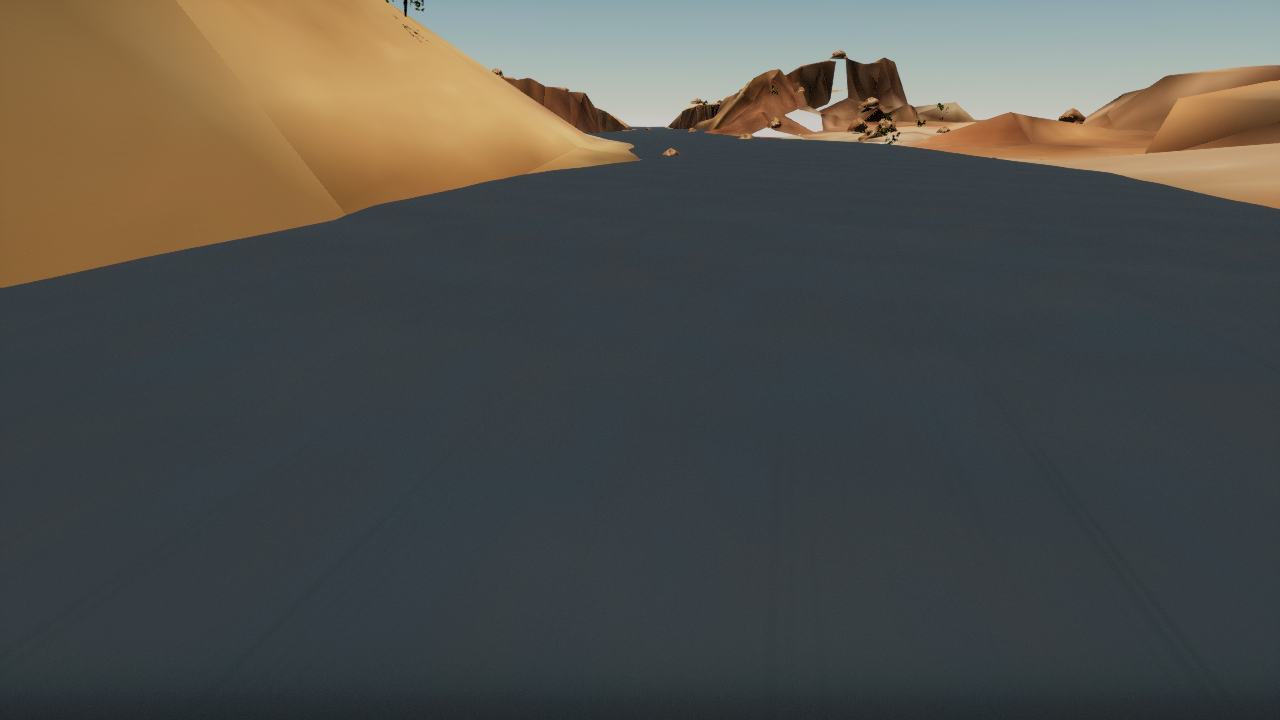
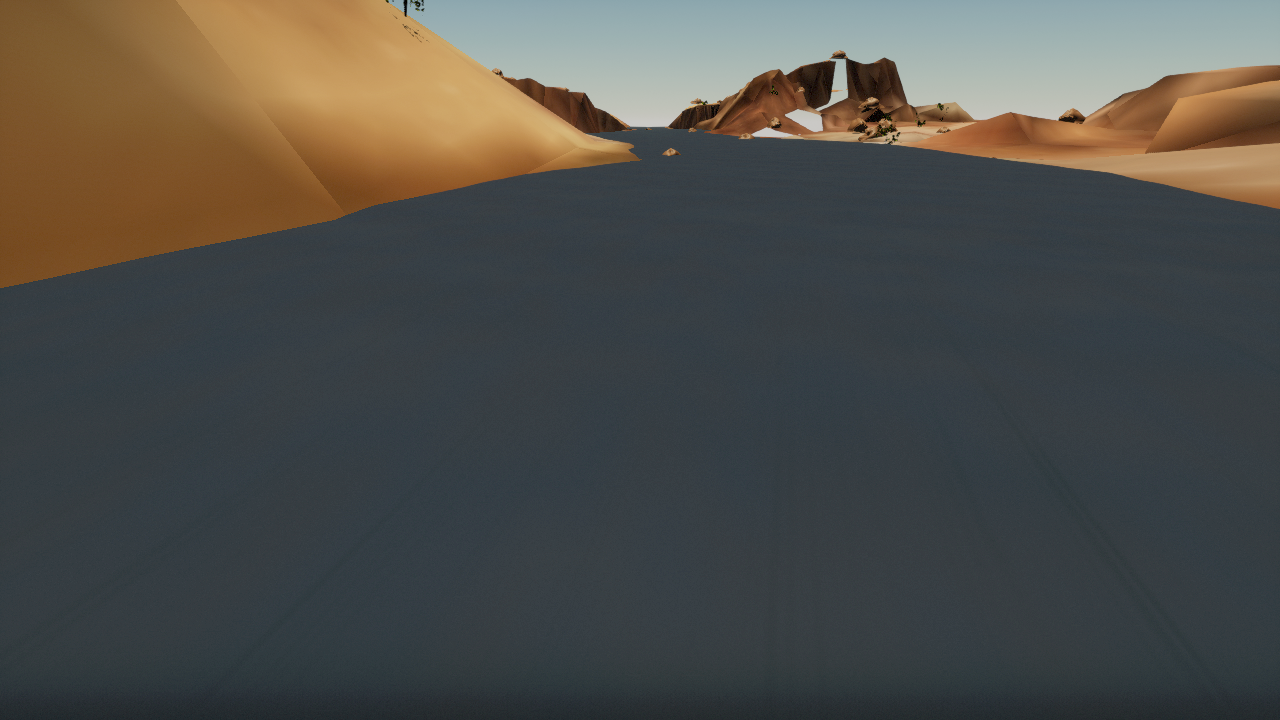
Close river shoreline render gaps

Changed region(s): [[0.0, 0.2139, 0.375, 0.3972], [0.9375, 0.2444, 1.0, 0.3056], [0.4062, 0.2139, 0.5, 0.2444]]

diff --git a/unreal/Plugins/RaftSim/Source/RaftSimEditor/Private/RaftSimEditorModule.cpp b/unreal/Plugins/RaftSim/Source/RaftSimEditor/Private/RaftSimEditorModule.cpp
@@ -205,7 +205,7 @@ struct FRaftSimLandscapeCandidateWaterSettings
     float RefractionIor = 1.333f;
     float PhaseG = 0.15f;
     float VertexTintWeight = 0.65f;
-    float RenderWidthScale = 1.20f;
+    float RenderWidthScale = 1.35f;
     float RenderNormalUpBlend = 0.52f;
     float RenderDisplacementScale = 0.70f;
     float ReflectionFillIntensity = 0.16f;
@@ -267,7 +267,7 @@ FRaftSimLandscapeCandidateWaterSettings GetLandscapeCandidateWaterSettings(const
         Settings.NormalIntensity = 0.68f;
         Settings.PhaseG = 0.25f;
         Settings.VertexTintWeight = 0.62f;
-        Settings.RenderWidthScale = 1.22f;
+        Settings.RenderWidthScale = 1.45f;
         Settings.RenderNormalUpBlend = 0.48f;
         Settings.RenderDisplacementScale = 0.78f;
         Settings.ReflectionFillIntensity = 0.15f;
@@ -1518,9 +1518,21 @@ UMaterialInterface* LoadOrCreateLandscapeCandidateMaterial(
     UMaterialExpressionConstant* WetBankBlendWeight = NewObject<UMaterialExpressionConstant>(Material);
     WetBankBlendWeight->R = Settings.WetBankBlendWeight;
     Material->GetExpressionCollection().AddExpression(WetBankBlendWeight);
-    UMaterialExpressionMultiply* WetBankBlendMask = NewObject<UMaterialExpressionMultiply>(Material);
-    WetBankBlendMask->A.Expression = WetBankBand;
-    WetBankBlendMask->B.Expression = WetBankBlendWeight;
+    UMaterialExpressionMultiply* WetBankBlendMaskRaw = NewObject<UMaterialExpressionMultiply>(Material);
+    WetBankBlendMaskRaw->A.Expression = WetBankBand;
+    WetBankBlendMaskRaw->B.Expression = WetBankBlendWeight;
+    Material->GetExpressionCollection().AddExpression(WetBankBlendMaskRaw);
+    UMaterialExpressionConstant* WetBankArtifactSuppressionGain =
+        NewObject<UMaterialExpressionConstant>(Material);
+    WetBankArtifactSuppressionGain->R = 2.4f;
+    Material->GetExpressionCollection().AddExpression(WetBankArtifactSuppressionGain);
+    UMaterialExpressionMultiply* WetBankBlendMaskAmplified =
+        NewObject<UMaterialExpressionMultiply>(Material);
+    WetBankBlendMaskAmplified->A.Expression = WetBankBlendMaskRaw;
+    WetBankBlendMaskAmplified->B.Expression = WetBankArtifactSuppressionGain;
+    Material->GetExpressionCollection().AddExpression(WetBankBlendMaskAmplified);
+    UMaterialExpressionSaturate* WetBankBlendMask = NewObject<UMaterialExpressionSaturate>(Material);
+    WetBankBlendMask->Input.Expression = WetBankBlendMaskAmplified;
     Material->GetExpressionCollection().AddExpression(WetBankBlendMask);
     UMaterialExpressionConstant3Vector* WetBankColorScale =
         NewObject<UMaterialExpressionConstant3Vector>(Material);
@@ -18712,10 +18724,12 @@ bool FRaftSimEditorModule::CreateLandscapeImportCandidateMaps(FString& OutSummar
             TEXT("      \"landscape_material_specular_level\": %.3f,\n")
             TEXT("      \"landscape_material_riverbed_blend_weight\": %.3f,\n")
             TEXT("      \"landscape_material_wet_bank_blend_weight\": %.3f,\n")
+            TEXT("      \"landscape_material_wet_bank_artifact_suppression_gain\": 2.400,\n")
             TEXT("      \"landscape_material_riverbed_roughness\": %.3f,\n")
             TEXT("      \"landscape_material_riverbed_color_scale\": [%.3f, %.3f, %.3f],\n")
             TEXT("      \"landscape_material_wet_bank_color_scale\": [%.3f, %.3f, %.3f],\n")
             TEXT("      \"landscape_material_zone_conditioning_policy\": \"source_visible_water_darkens_submerged_riverbed_and_feathered_source_water_edge_conditions_wet_bank_without_changing_landscape_geometry_or_solver_authority\",\n")
+            TEXT("      \"landscape_material_wet_bank_artifact_policy\": \"saturate_existing_source_feather_band_to_suppress_bright_albedo_rails_without_widening_water_mask_or_adding_geometry\",\n")
             TEXT("      \"landscape_material_promotion_status\": \"review_only_not_lifelike_not_gameplay_promoted\",\n")
             TEXT("      \"landscape_dressing_status\": \"%s\",\n")
             TEXT("      \"landscape_dressing_asset_count\": %d,\n")

diff --git a/docs/unreal-photoreal-open-world-stack.md b/docs/unreal-photoreal-open-world-stack.md
@@ -31,7 +31,7 @@ The approved first-party procedural-equivalent environment asset plan is `unreal
 
 The generated preview maps live under `/Game/RaftSim/Maps/EnvironmentPreviews/`, and `RaftSim.CreatePhotorealEnvironmentPreviewMaps` plus `RaftSim.CapturePhotorealEnvironmentPreviews` rebuild the three base maps, ten flow-variant maps, and 26 guide-seat/river-eye screenshots. The July 9 renderer imports the first-party `ProductionDetailTextures` albedo, tangent normal, and packed AO/roughness/height sets for South Fork, Grand Canyon, and Pacuare. `M_RaftSim_AtlasSampleReview` now uses separate RG `AtlasTileOrigin`/`AtlasTileScale` and `TerrainDetailUvScale`/`TerrainDetailUvOffset` parameters, fixing the UE 5.8 Metal component-mask compile failure that had silently fallen back to Unreal's default material.
 
-The first native source-terrain candidates now live under `/Game/RaftSim/Maps/EnvironmentPreviews/LandscapeCandidates/`. `RaftSim.CreateLandscapeImportCandidateMaps` imports the three review-gated 1009x1009 16-bit PNG heightfields through Unreal's `LandscapeEditor` format API as 16x16-component `ALandscape` maps, builds four Nanite representations per river, audits all 256 source component and Nanite material bindings, and captures guide-seat plus river-eye evidence under `docs/environment-captures/photoreal_river_previews/landscape_candidates/`. Each candidate material combines four source-conditioned Texture2D assets with three independent first-party close-range terrain Texture2D assets. Macro albedo, normals, ambient occlusion, and roughness retain source/detail variation; the material-zone blue channel darkens submerged riverbed color/roughness and its feathered edge conditions the wet bank without altering geometry. River-specific Landscape mapping and all bounded zone settings are recorded in the generated manifest. PVE/Nanite-foliage evaluation is active in these maps: source masks and imported Landscape heights drive HISM broadleaf/conifer crowns, understory, and bark-material trunks while first-party dense irregular rock meshes add bounded river-specific dressing. The maps bind a custom opaque DefaultLit solver-surface parent and per-river instances to the solver-owned procedural ribbon. These expose surface/vertex tint balance, seam-continuous normal-atlas detail, bounded render overlap/smoothing, reflection support, and a small Fresnel capture fallback without requiring WaterBody/WaterZone or changing physics/forcing authority; prior Single Layer volume parameters remain manifest-recorded but inactive. South Fork additionally binds two clamped Texture2D derivatives from the accepted whole-window median finite-volume C++ frame: tangent macro normals and packed RGBA depth/speed/Froude/detrended-`eta`. `cpp_solver_visualization_field_manifest.json` records source hashes, corrected boundary and HLL semantics, `feature_strength_scale=0`, passing GeoClaw comparison, passing full C++ gate, the accepted report-set lock, visual decode gains, and a lossless ±4 m relief encoding under a 36 cm render ceiling. The noncolliding candidate ribbon uses that relief with only 42% residual analytic displacement and adds a separate noncolliding DefaultLit foam surface whose deterministic breakup is confined to the decoded speed/Froude aeration mask. A dedicated South Fork rapid camera frames the strongest accepted mean-Froude approach, while the standard upstream capture remains calm. None of these render derivatives changes solver state, collision, raft force, conservation evidence, or feature forcing, and none is reused for Colorado or Pacuare. The offscreen renderer uses persistent view state plus a first render to request shader permutations, waits for compilation, recreates Landscape component state, and then records the evidence frame; this prevents UE 5.8's fallback grid or missing reflection history from masquerading as final shading. The candidates remain isolated and review-gated because their analytic preview channel burn is not solver or accepted geospatial geometry, the PVE twig assemblies and procedural rocks are evaluation content rather than final biome assets, and visual inspection still shows coarse banks, repeated silhouettes, provisional surface shading, low-resolution whitewater, and missing crest-scale spray, atmosphere, and production VFX.
+The first native source-terrain candidates now live under `/Game/RaftSim/Maps/EnvironmentPreviews/LandscapeCandidates/`. `RaftSim.CreateLandscapeImportCandidateMaps` imports the three review-gated 1009x1009 16-bit PNG heightfields through Unreal's `LandscapeEditor` format API as 16x16-component `ALandscape` maps, builds four Nanite representations per river, audits all 256 source component and Nanite material bindings, and captures guide-seat plus river-eye evidence under `docs/environment-captures/photoreal_river_previews/landscape_candidates/`. Each candidate material combines four source-conditioned Texture2D assets with three independent first-party close-range terrain Texture2D assets. Macro albedo, normals, ambient occlusion, and roughness retain source/detail variation; the material-zone blue channel darkens submerged riverbed color/roughness and its feathered edge conditions the wet bank without altering geometry. River-specific Landscape mapping and all bounded zone settings are recorded in the generated manifest. PVE/Nanite-foliage evaluation is active in these maps: source masks and imported Landscape heights drive HISM broadleaf/conifer crowns, understory, and bark-material trunks while first-party dense irregular rock meshes add bounded river-specific dressing. The maps bind a custom opaque DefaultLit solver-surface parent and per-river instances to the solver-owned procedural ribbon. These expose surface/vertex tint balance, seam-continuous normal-atlas detail, bounded render overlap/smoothing, reflection support, and a small Fresnel capture fallback without requiring WaterBody/WaterZone or changing physics/forcing authority; prior Single Layer volume parameters remain manifest-recorded but inactive. Direct isolation found that the remaining continuous white bank rails were uncovered render gaps rather than the Landscape wet-bank feather: stronger feather-tail shading did not move them, while noncolliding render overlap did. The manifest now records 1.35x South Fork, 1.17x Colorado, and 1.45x Pacuare render widths; recapture removes the South Fork rail and leaves only one isolated Pacuare bank point for production microgeometry, without widening collision or changing solver geometry. South Fork additionally binds two clamped Texture2D derivatives from the accepted whole-window median finite-volume C++ frame: tangent macro normals and packed RGBA depth/speed/Froude/detrended-`eta`. `cpp_solver_visualization_field_manifest.json` records source hashes, corrected boundary and HLL semantics, `feature_strength_scale=0`, passing GeoClaw comparison, passing full C++ gate, the accepted report-set lock, visual decode gains, and a lossless ±4 m relief encoding under a 36 cm render ceiling. The noncolliding candidate ribbon uses that relief with only 42% residual analytic displacement and adds a separate noncolliding DefaultLit foam surface whose deterministic breakup is confined to the decoded speed/Froude aeration mask. A dedicated South Fork rapid camera frames the strongest accepted mean-Froude approach, while the standard upstream capture remains calm. None of these render derivatives changes solver state, collision, raft force, conservation evidence, or feature forcing, and none is reused for Colorado or Pacuare. The offscreen renderer uses persistent view state plus a first render to request shader permutations, waits for compilation, recreates Landscape component state, and then records the evidence frame; this prevents UE 5.8's fallback grid or missing reflection history from masquerading as final shading. The candidates remain isolated and review-gated because their analytic preview channel burn is not solver or accepted geospatial geometry, the PVE twig assemblies and procedural rocks are evaluation content rather than final biome assets, and visual inspection still shows coarse banks, repeated silhouettes, provisional surface shading, low-resolution whitewater, and missing crest-scale spray, atmosphere, and production VFX.
 
 Candidate lighting and post-processing now come from one river-specific `FRaftSimPhotographicCaptureSettings` contract rather than scattered desert/rainforest conditionals. Sun, skylight, fog, manual exposure, saturation, contrast, sharpening, vignette, and zero camera-film-grain values are serialized into `landscape_candidate_manifest.json` for every evidence frame. A clean UE 5.8 rebuild and offscreen recapture produced no material or shader errors and all 26 environment tests pass. The controlled sky fill improves diagnostic shadow retention, but visual review still finds near-black repeated foliage, coarse terrain plates, and a flat overlapping foreground water/bank ribbon; these are production material/geometry blockers, not reasons to hide the scene with stronger exposure or post-process noise.
 

diff --git a/docs/photoreal-river-environment-production-plan.md b/docs/photoreal-river-environment-production-plan.md
@@ -352,4 +352,4 @@ Initial source slice:
 - `docs/environment-captures/photoreal_river_previews/photoreal_human_lifelike_review_results_template.json` is the machine-readable intake form for that same review. External reviewers must fill reviewer identity, evidence links/artifacts, blockers, follow-up actions, and final river decisions there before any lifelike or production-playable status can be recorded.
 - `docs/environment-captures/photoreal_river_previews/photoreal_environment_performance_review.json` is the desktop/VR performance evidence scaffold for the current source-conditioned maps and captures. It verifies the static assets and budget slots are traceable, while deliberately keeping all six river/profile decisions open until real Unreal profiling captures are recorded.
[1 lines of base64/hex data omitted]
-- The July 9 Unreal evidence refresh imported nine first-party close-range terrain Texture2D assets, rebuilt the three base and ten flow-variant maps, regenerated 26 guide-seat/river-eye PNG captures, and synchronized the automated, human-review, performance, source-plan, art, and gap manifests. Visual spot checks show real terrain texture and remove the former rails, center seam, and synthetic grain, but still read as smooth generated terrain/water with proxy rocks and foliage. The next production step is production Landscape/Nanite geometry, biome-specific foliage, physically plausible water shading, and reviewed atmosphere/VFX, not screenshot promotion.
+- The July 9 Unreal evidence refresh imported nine first-party close-range terrain Texture2D assets, rebuilt the three base and ten flow-variant maps, regenerated 26 guide-seat/river-eye PNG captures, and synchronized the automated, human-review, performance, source-plan, art, and gap manifests. The July 10 Landscape-candidate water pass then replaced the failed Single Layer depth composition with an opaque DefaultLit solver surface and isolated residual bright bank rails as uncovered render gaps: recorded noncolliding width overlap of 1.35x for South Fork and 1.45x for Pacuare removes the continuous rails while Colorado remains at 1.17x. One isolated Pacuare bank point remains for source-aligned production microgeometry. Visual spot checks still read as smooth generated terrain/water with proxy rocks and foliage, so the next production step is production Landscape/Nanite geometry, biome-specific foliage, physically plausible water shading, and reviewed atmosphere/VFX, not screenshot promotion.

diff --git a/TODO.md b/TODO.md
@@ -1197,6 +1197,7 @@ This milestone turns the three runnable river targets into complete, reviewable,
   - [x] Centralize and record river-specific photographic capture settings for the isolated Landscape candidates: South Fork, Grand Canyon, and Pacuare now use explicit sun, skylight, fog, exposure, saturation, contrast, sharpen, and vignette values from one C++ contract, with camera film grain fixed at zero. The generated candidate manifest records every value, the UE 5.8 editor target and clean offscreen recapture pass without shader/material errors, and all 26 environment tests pass. Visual review remains blocked: recovered sky fill does not fix near-black repeated foliage, coarse terrain, or the flat overlapping foreground water/bank ribbon, so further exposure tuning cannot substitute for production shading and geometry.
   - [x] Preserve leaf color and transmission under the recorded capture photometry: generate six saved river/type material instances that inherit the PVE broadleaf/conifer source textures and opacity, apply river-specific front-face, backside, transmission, roughness, and normal controls, and bind only the `TwoSided` leaf slot on all three HISM twig components. The candidate manifest audits two foliage assets and 3/3 bound slots per river; a clean UE 5.8 recapture has no shader/material failures and all 26 tests pass. South Fork, Colorado scrub, and Pacuare leaves now retain visible green color instead of uniformly black silhouettes, but repeated twig assemblies and sparse species diversity remain production blockers.
   - [x] Replace the active Landscape-candidate Single Layer Water path after isolating its foreground depth split: hiding only the procedural ribbon removes both zones, while rendering the same continuous mesh with DefaultLit removes the split and preserves wave geometry; normal-atlas seam crossfading and non-tiled composition do not move the failure, while changing provisional channel depth does. Generate `M_RaftSim_SolverSurfaceWaterCandidate` plus three river instances as the active opaque DefaultLit path, retain old Single Layer assets as inactive evidence, keep South Fork solver macro-normal/depth/speed/Froude/relief and foam bindings, disable the synthetic near-camera wedge fill, and record inactive volume/refraction values separately. The active surface is continuous but still review-only pending production bathymetry, reflection/refraction, live turbulence, banks, VFX, guide review, and performance evidence.
+  - [x] Close the continuous bright shoreline-rail artifact without changing water physics: direct material-tail suppression did not move the residual strips, while bounded noncolliding solver-surface render overlap did. Record 1.35x South Fork, 1.17x Colorado, and 1.45x Pacuare render widths in the candidate manifest; regenerated river-eye captures remove the South Fork rail and reduce Pacuare to one isolated bank point. Keep that point open for source-aligned production bank microgeometry instead of widening collision, changing solver geometry, or adding a synthetic cover.
   - [ ] Replace smooth generated terrain/water geometry and proxy rocks/foliage with production Landscape/Nanite geometry, biome-specific foliage, physically plausible water shading, and reviewed atmosphere/VFX until the July 9 base and flow blockers clear without synthetic grain or overlay cards.
   - [ ] Extend solver-derived rendering from the South Fork review derivative to live per-frame ribbon displacement, velocity-aligned micro-normal advection, wet/dry bank transitions, and foam/aeration masks; add equivalent river- and flow-specific fields for Colorado and Pacuare only after their own accepted C++/GeoClaw scenarios exist.
   - [ ] Run human art, guide, geospatial, rights, hazard-readability, and performance review only after the active automated blocker set clears; do not send the current blocked captures for lifelike approval.
